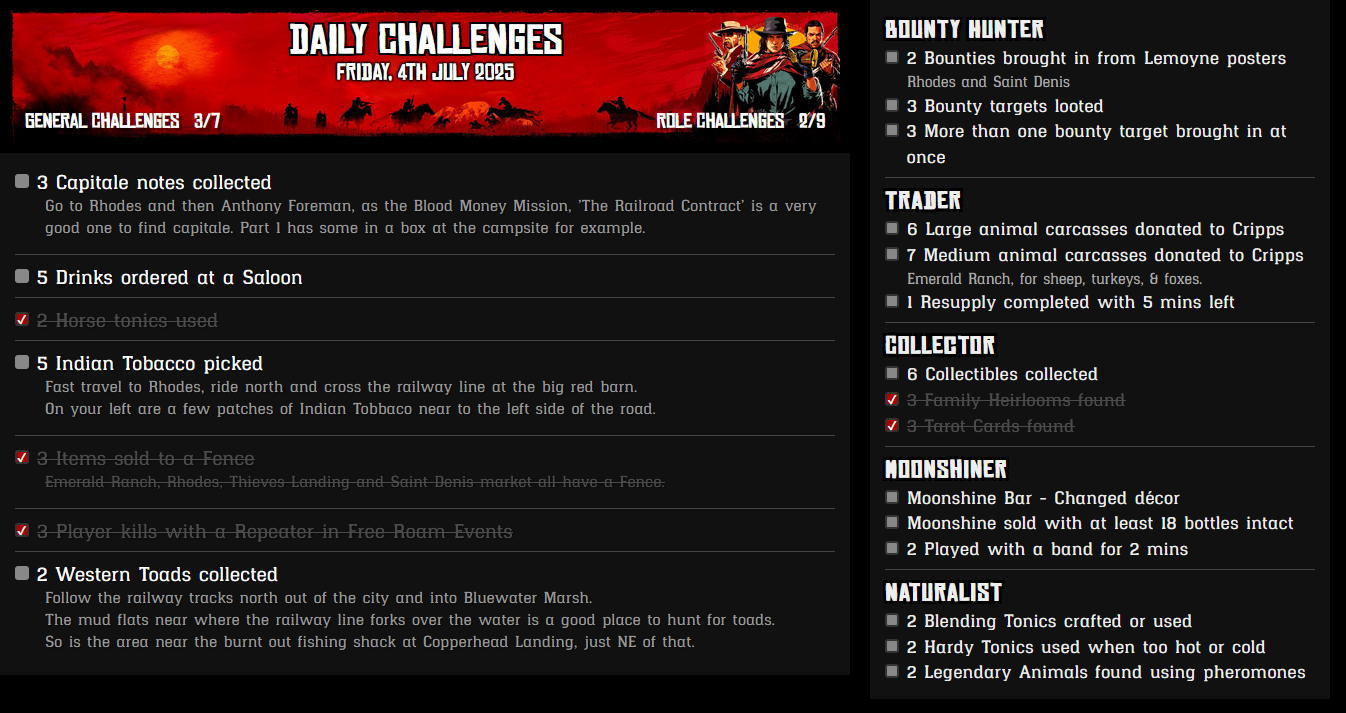
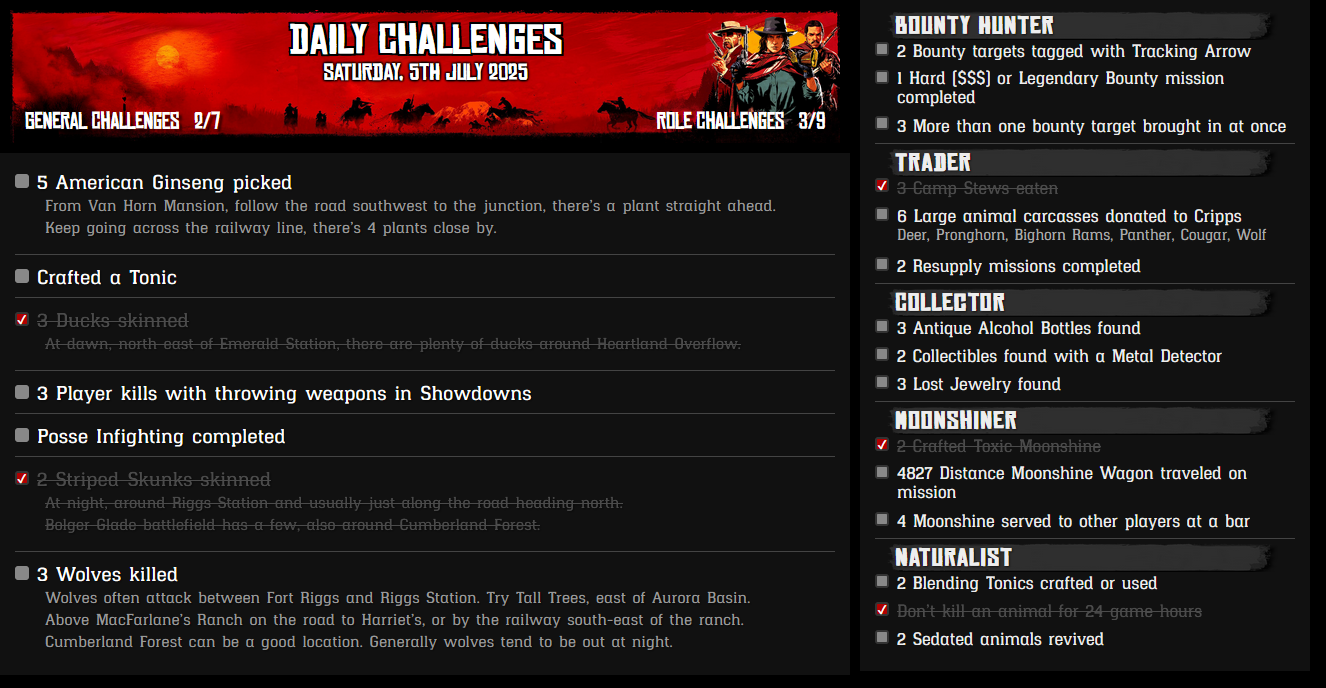
Tweaks to role headings
Trying a few things within the confines of css

diff --git a/index.html b/index.html
@@ -290,7 +290,7 @@
             background-image: url('HTML/images/RDO_Role_Challenges_Header3.png');
             background-repeat: no-repeat;
             background-position: 2px center;
-            background-size: 200px 35px;
+            background-size: 410px 35px;
     
         }
             /* Space between different role challenges */

diff --git a/RDO_dailies_v3.py b/RDO_dailies_v3.py
@@ -1204,7 +1204,7 @@ html_output = f'''
             background-image: url('HTML/images/RDO_Role_Challenges_Header3.png');
             background-repeat: no-repeat;
             background-position: 2px center;
-            background-size: 200px 35px;
+            background-size: 410px 35px;
     
         }}
             /* Space between different role challenges */
